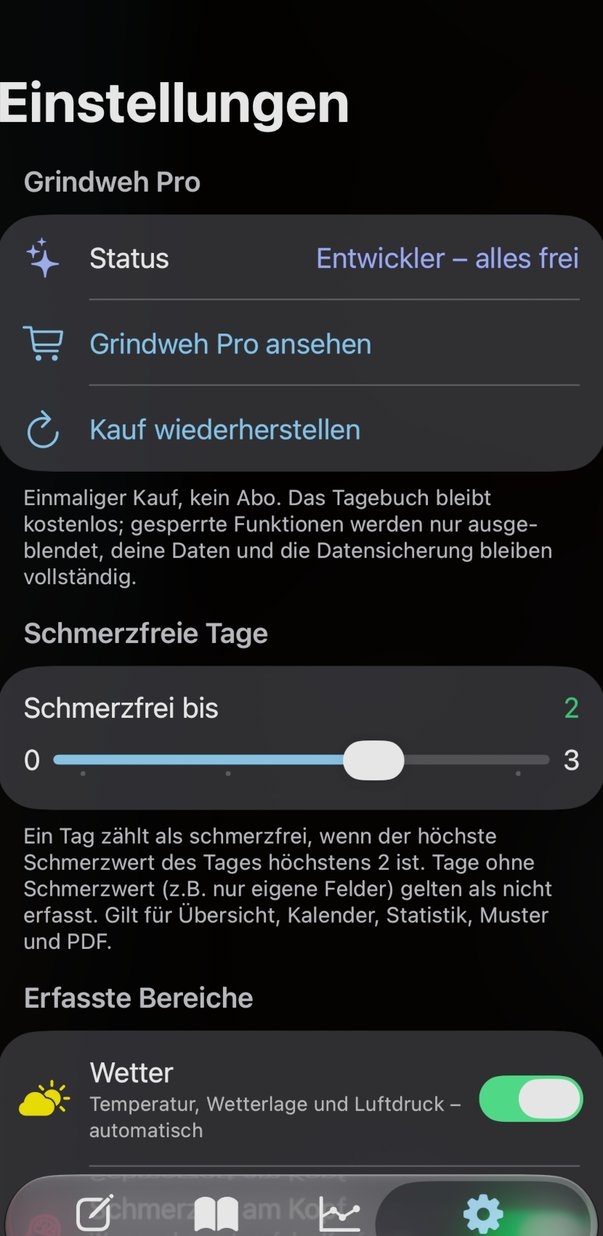
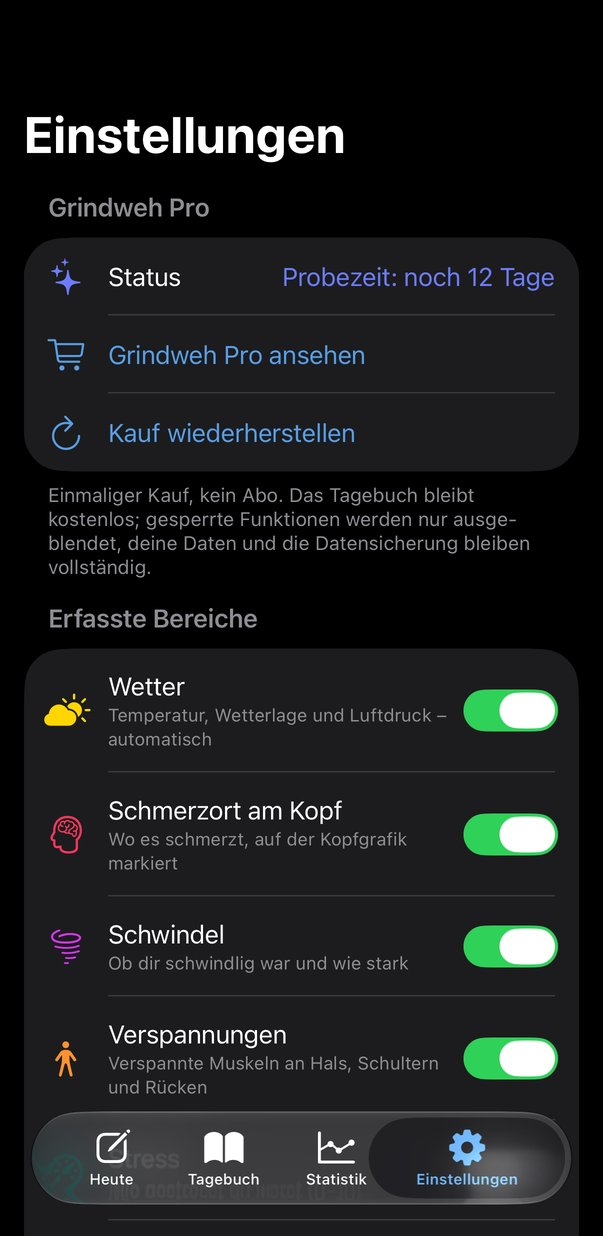
Test: iPhone-Mockup statt CSS-Rahmen

diff --git a/index.html b/index.html
@@ -39,7 +39,7 @@
 <section id="personalisierbar"><div class="wrap feat"><div class="txt"><div class="eyebrow">Personalisierbar</div><h2>Ganz nach deinem Mass.</h2>
 <p class="lead">Du bestimmst, was dein Tagebuch abfragt. In den Einstellungen schaltest du jeden Bereich einzeln ein oder aus.</p>
 <ul><li style="--dot:var(--orange)">15 Bereiche, von Wetter und Verspannungen bis Koffein und Bildschirmzeit</li><li style="--dot:var(--red)">Die Schmerzstärke am Morgen, Mittag und Abend wird immer erfasst</li><li style="--dot:var(--teal)">Ausgeblendete Bereiche behalten ihre Daten</li><li style="--dot:var(--blue)">Eigene Felder als Ja/Nein oder Auswahl – eines gratis, mehr mit Pro</li></ul></div>
-<div class="vis"><div class="phone sm"><div class="scr"><picture><source srcset="assets/shots/settings_1_dark.jpg" media="(prefers-color-scheme: dark)"><img src="assets/shots/settings_1_light.jpg" alt="" loading="lazy"></picture></div></div><div class="phone sm"><div class="scr"><picture><source srcset="assets/shots/settings_2_dark.jpg" media="(prefers-color-scheme: dark)"><img src="assets/shots/settings_2_light.jpg" alt="" loading="lazy"></picture></div></div></div></div></section>
+<div class="vis"><img class="mock" src="assets/shots/mock_settings_1_dark.png" alt="" loading="lazy"><div class="phone sm"><div class="scr"><picture><source srcset="assets/shots/settings_2_dark.jpg" media="(prefers-color-scheme: dark)"><img src="assets/shots/settings_2_light.jpg" alt="" loading="lazy"></picture></div></div></div></div></section>
 
 <section><div class="wrap"><div class="eyebrow">Und ausserdem</div><h2>Bereit für den Arzttermin.</h2>
 <div class="grid4"><div class="card"><div class="ico" style="background:var(--red)">⎙</div><h3>PDF-Bericht</h3><p>Ein übersichtlicher Monatsbericht für deine Ärztin oder deinen Arzt.</p></div>

diff --git a/assets/style.css b/assets/style.css
@@ -69,3 +69,5 @@ html,body{overflow-x:hidden}.hero .wrap>*{min-width:0}
 .zones{width:340px}
 .wait input{min-width:0}
 @media(max-width:900px){.stage .head{display:none}}
+
+.mock{width:250px;height:auto;display:block;filter:drop-shadow(0 30px 40px rgba(20,22,40,.35))}
